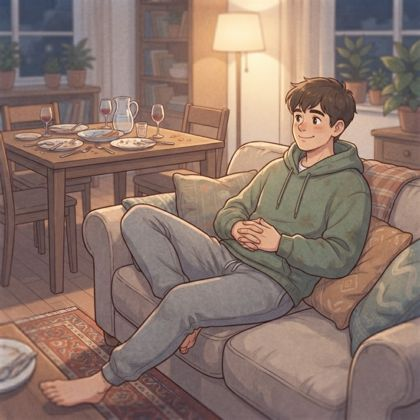
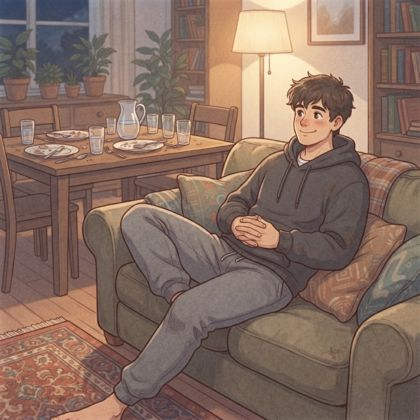
7A: travel picture; new relax picture
Claude-Session: https://claude.ai/code/session_01J4ARfuMZHNvaqfN5rYq3CE

diff --git a/public/homework/index.html b/public/homework/index.html
@@ -1273,14 +1273,14 @@ const LESSON_6B = [
 Object.assign(IMG,{"r56bread":"img/r56bread.jpg","r56water":"img/r56water.jpg","r56sugar":"img/r56sugar.jpg","r56milk":"img/r56milk.jpg","r56cheese":"img/r56cheese.jpg","r56juice":"img/r56juice.jpg","r56sushi":"img/r56sushi.jpg","r56clocks":"img/r56clocks.jpg","r56people":"img/r56people.jpg"});
 const GR56 = [[`In Japan, we `,`have`,[`have`,`has`],` rice for breakfast.`],[`They `,`don't eat`,[`don't eat`,`not eat`],` meat.`],[`You `,`eat`,[`eats`,`eat`],` a lot of fast food. It isn't good for you.`],[`I `,`don't drink`,[`don't drink`,`'m not drink`],` tea, I prefer coffee.`],[``,`Do`,[`Are`,`Do`],` you want a Coke?`],[`A: Do they live near here? B: Yes, they `,`do`,[`do`,`live`],`.`],[``,`Do you like`,[`Like you`,`Do you like`],` Mexican food?`],[`A: What time `,`do we arrive`,[`do we arrive`,`we arrive`],`? B: At 5.30.`],[``,`Does`,[`Do`,`Does`],` she speak Spanish?`],[`He `,`works`,[`works`,`work`],` for a fashion magazine.`],[`My brother `,`doesn't have`,[`don't have`,`doesn't have`],` children.`],[`She `,`goes`,[`go`,`goes`],` to the gym after work.`],[`He `,`always has`,[`always has`,`has always`],` a shower before breakfast.`],[`I `,`never go`,[`don't never go`,`never go`],` to bed before 12.00.`],[`What time `,`do you usually have`,[`you have usually`,`do you usually have`],` lunch?`]];
 const JAPAN = `<div style='display:flex;gap:12px;flex-wrap:wrap;align-items:flex-start;margin-top:8px'><img src='img/r56sushi.jpg' alt='' style='width:150px;border-radius:12px'><div style='flex:1;min-width:220px;background:#fdf6ec;border-radius:12px;padding:10px 12px;line-height:1.7'><b style='color:#c2185b;font-size:1.15rem'>Eat the Japanese way</b><br>Doctors say that the traditional <u>diet</u> in Japan and other Asian countries is very healthy.<br><b style='color:#c2185b'>Why is it good for you?</b><br>In Japan, people don't eat a lot of red <b>(1)</b>…, butter, or cheese. They eat a lot of rice and fish and fresh fruit and <b>(2)</b>…. This diet is very <b>(3)</b>… for your heart and people in Japan live longer than in other countries.<br><b style='color:#c2185b'>How to eat like the Japanese</b><br>• Eat rice with your meals and don't eat a lot of <b>(4)</b>…, especially chips.<br>• Eat a lot of fish. <b>(5)</b>… eat a lot of meat, for example, steak and <b>(6)</b>….<br>• Eat fresh fruit and vegetables <b>(7)</b>… day.<br>• Drink green tea, not <b>(8)</b>….<br>• Eat on <b>(9)</b>… plates. Eat slowly.<br>• <b>(10)</b>… eating when you are full.</div></div>`;
-Object.assign(IMG,{"a7a1":"img/a7a1.jpg","a7a2":"img/a7a2.jpg","a7a3":"img/a7a3.jpg","a7a4":"img/a7a4.jpg","a7a6":"img/a7a6.jpg","a7a7":"img/a7a7.jpg","a7a8":"img/a7a8.jpg","a7a9":"img/a7a9.jpg","a7a10":"img/a7a10.jpg","a7a11":"img/a7a11.jpg","a7a12":"img/a7a12.jpg"});
+Object.assign(IMG,{"a7a1":"img/a7a1.jpg","a7a2":"img/a7a2.jpg","a7a3":"img/a7a3.jpg","a7a4":"img/a7a4.jpg","a7a5":"img/a7a5.jpg","a7a6":"img/a7a6.jpg","a7a7":"img/a7a7.jpg","a7a8":"img/a7a8.jpg","a7a9":"img/a7a9.jpg","a7a10":"img/a7a10.jpg","a7a11":"img/a7a11.jpg","a7a12":"img/a7a12.jpg"});
 const LESSON_7A = [
  {name:`Vocabulary`, review:`Vocabulary: common verb phrases 2: free time`, ex:[
   {t:`1a. Look at the pictures. Complete the questions.`, ea:`عبارات وقت الفراغ: do sport، go out، go for a walk، play computer games، travel، play the piano، relax، play tennis، meet friends، swim، stay at home، go to the beach.`, ins:`Look at each picture and write the missing words. The first letters are given. Example: Do you do sport?`, wide:1, items:[{x:1,p:[{img:`a7a1`},`\nDo you do sport? (example)`]}].concat([
    [`@a7a2`,[`Do you (g…) `,`go`,` (o…) `,`out`,` on a Friday night?`]],
    [`@a7a3`,[`Do you go for a (w…) `,`walk`,` in the mountains?`]],
    [`@a7a4`,[`Do you (pl…) `,`play`,` (c…) `,`computer`,` (g…) `,`games`,` after school?`]],
-   [`🧳✈`,[`Do you (tr…) `,`travel`,` a lot?`]],
+   [`@a7a5`,[`Do you (tr…) `,`travel`,` a lot?`]],
    [`@a7a6`,[`Do you (pl…) `,`play`,` the (p…) `,`piano`,`?`]],
    [`@a7a7`,[`Do you (r…) `,`relax`,` after dinner?`]],
    [`@a7a8`,[`Do you (pl…) `,`play`,` (t…) `,`tennis`,`?`]],
